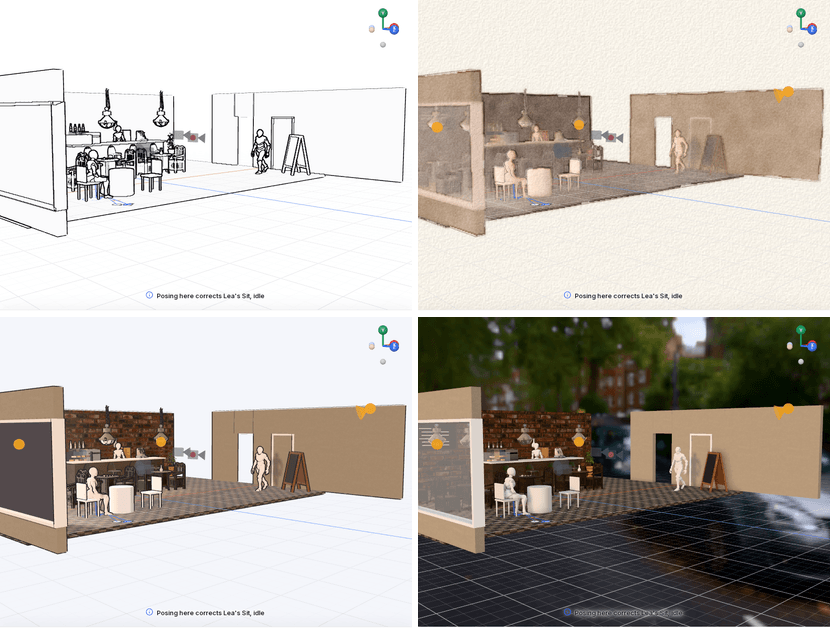
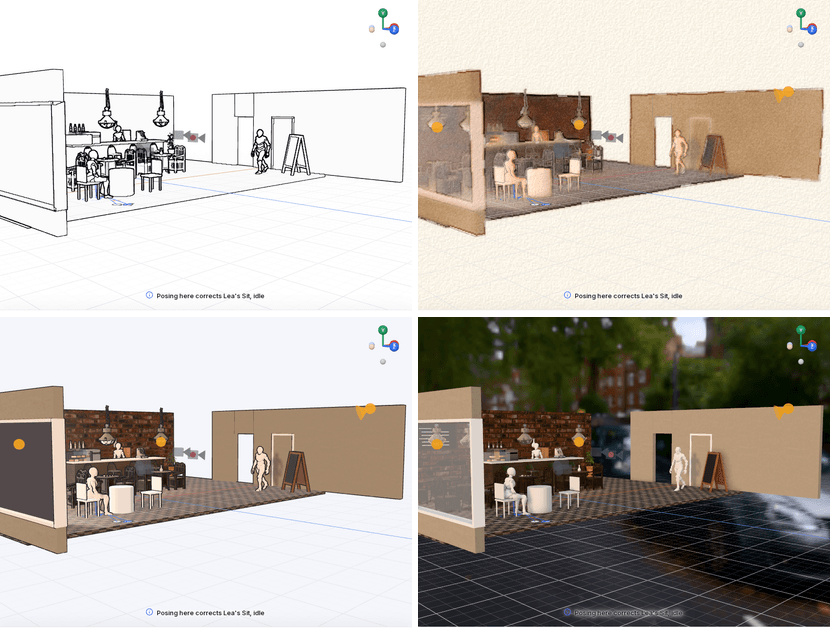
Watercolour bright and clear, not grey: pigment's colours (brighter, purer, the shade a cool glaze), no misty paler blooms, textures washed out from their smaller mips (not what they cut out: leaves stay), washes abstracted further

diff --git a/lib/toon.ts b/lib/toon.ts
@@ -1,5 +1,5 @@
 import * as THREE from 'three';
-import { EXTRA_GLSL, NOISE_GLSL, type SharedUniforms } from './shaders';
+import { EXTRA_GLSL, type SharedUniforms } from './shaders';
 
 /*
  * The Anime style's surface (#15): a material in the manner of MToon (the VRM toon material, an
@@ -111,7 +111,6 @@ const FRAG = /* glsl */ `
   uniform vec3 lightDir;
   uniform vec3 lightColor;
   ${EXTRA_GLSL}
-  ${NOISE_GLSL}
   uniform vec3 color;
   uniform float opacity;
   uniform sampler2D map;
@@ -144,7 +143,13 @@ const FRAG = /* glsl */ `
   vec2 placed(mat3 t) { return (t * vec3(vUv, 1.0)).xy; }
   void main() {
     vec4 base = vec4(color, opacity);
-    if (useMap) base *= texture2D(map, placed(mapTransform));
+    if (useMap) {
+      vec4 t = texture2D(map, placed(mapTransform));
+      // (In watercolour, a texture's detail washed out at any distance: its colour read from its
+      // smaller mips; not what it cuts out, a tree's leaves.)
+      if (wash > 0.5) t.rgb = texture2D(map, placed(mapTransform), 2.5).rgb;
+      base *= t;
+    }
     if (alphaMode == 1 && base.a < cutoff) discard;
     vec3 shaded = shade;
     if (useShadeMap) shaded *= texture2D(shadeMap, placed(shadeMapTransform)).rgb;
@@ -167,13 +172,10 @@ const FRAG = /* glsl */ `
     // The other lights: a fill's colour on its side, a light from behind as a rim along the edge.
     col += extraLight(n, v, 4.0, vWorld) * mix(base.rgb, vec3(1.0), 0.5);
     if (wash > 0.5) {
-      // Watercolour: paler and uneven, as a wash lies (blooms fixed to the thing, as it turns), the
-      // pigment pooled where it dried between light and shade. (The paper, the pigment's grain and
-      // the washes' edges are the picture's: lib/watercolour.ts.)
-      float bloom = fbm3(vWorld * 3.0 + 5.0);
-      float dried = lit * (1.0 - lit) * 4.0;
-      col = mix(col, vec3(1.0, 0.985, 0.95), clamp(0.22 + (bloom - 0.5) * 0.3, 0.0, 1.0));
-      col *= 1.0 - 0.12 * dried;
+      // Watercolour: the pigment pooled where it dried between light and shade. (The colour's
+      // brightness, the paper, the pigment's blotches and grain and the washes' edges are the
+      // picture's: lib/watercolour.ts.)
+      col *= 1.0 - 0.12 * lit * (1.0 - lit) * 4.0;
     }
     vec3 glow = emissive;
     if (useEmissiveMap) glow *= texture2D(emissiveMap, placed(emissiveMapTransform)).rgb;

diff --git a/lib/watercolour.ts b/lib/watercolour.ts
@@ -8,6 +8,7 @@ import { styleDef } from './styles';
  * (2017) do it:
  *  - abstracted: blurred along each surface but not across a step in depth, so textures and
  *    small detail melt into washes while the shapes keep their edges;
+ *  - pigment's colours: brighter and purer than a render's (no greys), the shade a cool glaze;
  *  - the hand's tremor: what is read moved a little by a slow noise, so the washes' edges wander;
  *  - pigment density: turbulence (a wash's blotches), granulation (pigment settling in the paper's
  *    grain, more in the dark) and, where a wash changes, the pigment pooled at its edge as it dried;
@@ -78,7 +79,12 @@ const PAINT_FRAG = /* glsl */ `
     vec2 wob = vec2(fbm(px * 0.011), fbm(px * 0.011 + 31.0)) - 0.5;
     vec2 uv = vUv + wob * 7.0 * scale / resolution;
     vec3 soft = seen(texture2D(tSoft, uv).rgb);
-    vec3 c = mix(soft, seen(texture2D(tSharp, uv).rgb), 0.2);
+    vec3 c = mix(soft, seen(texture2D(tSharp, uv).rgb), 0.12);
+    // Pigment, not a photograph's greys: brighter and purer colours, the shade a cool glaze.
+    float luma = dot(c, vec3(0.299, 0.587, 0.114));
+    c = pow(c, vec3(0.8));
+    c = clamp(mix(vec3(dot(c, vec3(0.299, 0.587, 0.114))), c, 1.55), 0.0, 1.0);
+    c *= mix(vec3(1.0), vec3(0.9, 0.95, 1.1), (1.0 - smoothstep(0.15, 0.6, luma)) * 0.7);
     // Where a wash changes (its edge, another wash beside it): the pigment pooled there as it dried.
     vec2 e = 3.0 * scale / resolution;
     vec3 gx = seen(texture2D(tSoft, uv + vec2(e.x, 0.0)).rgb) - seen(texture2D(tSoft, uv - vec2(e.x, 0.0)).rgb);
@@ -163,7 +169,7 @@ export class WatercolourPass {
     this.blur.uniforms.far.value = lens.far;
     this.blur.uniforms.ortho.value = (lens as THREE.OrthographicCamera).isOrthographicCamera === true;
     this.blur.uniforms.tDepth.value = this.sharp.depthTexture;
-    const reach = 1.6 * scale * pr;
+    const reach = 2.2 * scale * pr;
     this.quad.material = this.blur;
     this.blur.uniforms.tColor.value = this.sharp.texture;
     this.blur.uniforms.step.value.set(reach / w, 0);
